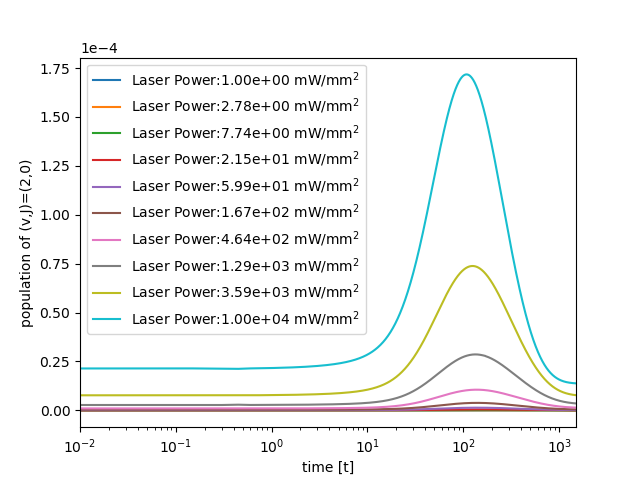
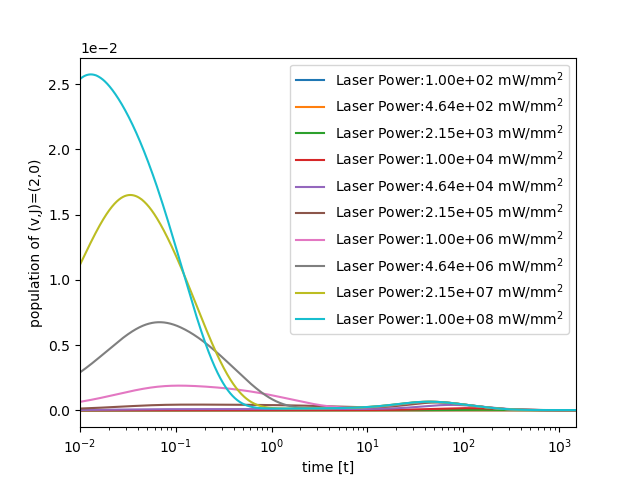
laser power vs something

diff --git a/molecular_rotational_cooling.py b/molecular_rotational_cooling.py
@@ -203,7 +203,7 @@ class molecular_rotational_cooling:
         
         J_num = [self.AJ.shape[1],4,4]
         var_init = list(self.Boltzmann_plot[:J_num[0]]) + [0] * (J_num[1] + J_num[2])
-        sol = solve_ivp(fun=self.population_ode_Bcoef, t_span=[0,t_max], y0=var_init, args=(self.AJ, self.gJ, self.Av, vJ_pump_i, vJ_pump_f, self.Bv(pumping_wave_length), pumping_laser_PSD_Wm3nm_average), t_eval=np.linspace(0,t_max,10**4), method="LSODA")
+        sol = solve_ivp(fun=self.population_ode_Bcoef, t_span=[0,t_max+1], y0=var_init, args=(self.AJ, self.gJ, self.Av, vJ_pump_i, vJ_pump_f, self.Bv(pumping_wave_length), pumping_laser_PSD_Wm3nm_average), t_eval=np.logspace(-2,np.log10(t_max),10**4), method="LSODA")
         print(sol.message)
         
         self.result_t = sol.t
@@ -288,8 +288,23 @@ class molecular_rotational_cooling:
         plt.show()
         plt.close('all')
     
+    def save_fig(self, file_name, t_max=1500):
+        plt.ylim([0.00,1])
+        plt.xlim([1,t_max])
+        plt.xscale("log")
+        plt.xlabel('time [t]')
+        plt.ylabel('population')
+        plt.plot(self.result_t, self.result_y)
+        plt.savefig(file_name)
+        plt.close('all')
+    
+    def save_csv(self, file_name):
+        export_data = np.concatenate(([self.result_t], self.result_y.T), axis = 0).T
+        np.savetxt(file_name, export_data, delimiter=',')
+    
+    
     def draw_v_J_eachlaserPower(self, v, J, t_max=1500):
-        laserPower = np.logspace(0,4,10)
+        laserPower = np.logspace(2,8,10)
         J_num = [self.AJ.shape[1],4,4]
         for Power in laserPower:
             self.run_laser_power(vJ_pump_i=[0,1], vJ_pump_f=[2,0], t_max=1500, pumping_laser_Power = Power)
@@ -305,7 +320,7 @@ class molecular_rotational_cooling:
         plt.close('all')
     
     def save_fig_v_J_eachlaserPower(self,file_name, v, J, t_max=1500):
-        laserPower = np.logspace(0,4,10)
+        laserPower = np.logspace(2,8,14)
         J_num = [self.AJ.shape[1],4,4]
         for Power in laserPower:
             self.run_laser_power(vJ_pump_i=[0,1], vJ_pump_f=[2,0], t_max=1500, pumping_laser_Power = Power)
@@ -320,17 +335,42 @@ class molecular_rotational_cooling:
         plt.savefig(file_name)
         plt.close('all')
     
-    def save_fig(self, file_name, t_max=1500):
-        plt.ylim([0.00,1])
-        plt.xlim([1,t_max])
+    def draw_laserPower_vs_v_J_peakTime(self, v, J, t_max=1500):
+        laserPower = np.logspace(-2,3,20)
+        J_num = [self.AJ.shape[1],4,4]
+        v_J_peakTime = []
+        for Power in laserPower:
+            self.run_laser_power(vJ_pump_i=[0,1], vJ_pump_f=[2,0], t_max=1500, pumping_laser_Power = Power)
+            v_J_peakTime.append(self.result_t[self.result_y[:, sum(J_num[:v])+J].argmax()])
+        plt.plot(laserPower, v_J_peakTime)
+        #plt.ylim([0,1])
+        #plt.xlim([0.01,t_max])
+        plt.yscale("log")
         plt.xscale("log")
-        plt.xlabel('time [t]')
-        plt.ylabel('population')
-        plt.plot(self.result_t, self.result_y)
-        plt.savefig(file_name)
+        #plt.legend(loc = 'best')
+        plt.xlabel('power density of pumping laser [mW/$\mathrm{mm}^{2}$]')
+        plt.ylabel('peak time of the population of (v,J)=({0},{1}) [s]'.format(v,J))
+        #plt.ticklabel_format(style="sci",  axis="y",scilimits=(0,0))
+        plt.tight_layout()
+        plt.show()
         plt.close('all')
     
-    def save_csv(self, file_name):
-        export_data = np.concatenate(([self.result_t], self.result_y.T), axis = 0).T
-        np.savetxt(file_name, export_data, delimiter=',')
-
+    def draw_laserPower_vs_v_J_peakHeight(self, v, J, t_max=1500):
+        laserPower = np.logspace(-2,3,20)
+        J_num = [self.AJ.shape[1],4,4]
+        v_J_peakHeight = []
+        for Power in laserPower:
+            self.run_laser_power(vJ_pump_i=[0,1], vJ_pump_f=[2,0], t_max=1500, pumping_laser_Power = Power)
+            v_J_peakHeight.append(self.result_y[:, sum(J_num[:v])+J].max())
+        plt.plot(laserPower, v_J_peakHeight)
+        #plt.ylim([0,1])
+        #plt.xlim([0.01,t_max])
+        plt.yscale("log")
+        plt.xscale("log")
+        #plt.legend(loc = 'best')
+        plt.xlabel('power density of pumping laser [mW/$\mathrm{mm}^{2}$]')
+        plt.ylabel('peak population of the population of (v,J)=({0},{1})'.format(v,J))
+        #plt.ticklabel_format(style="sci",  axis="y",scilimits=(0,0))
+        plt.tight_layout()
+        plt.show()
+        plt.close('all')
